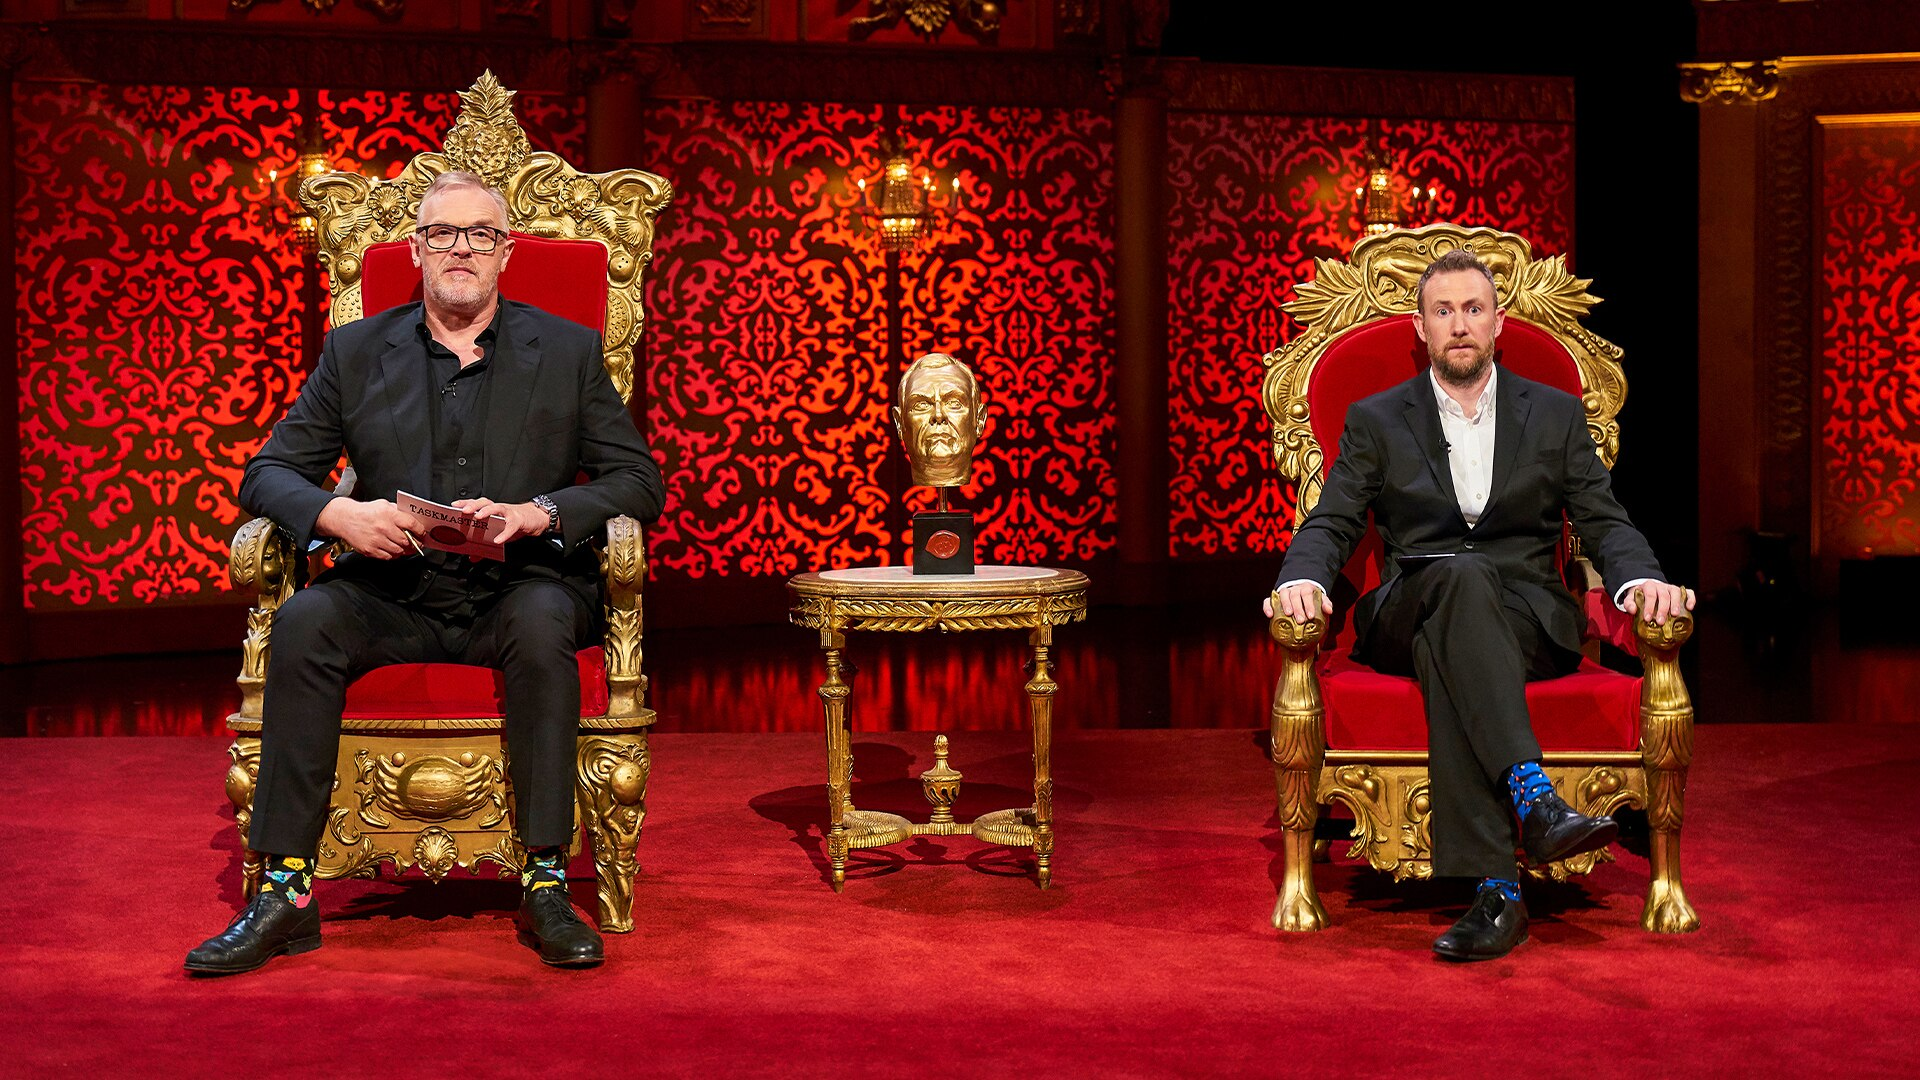
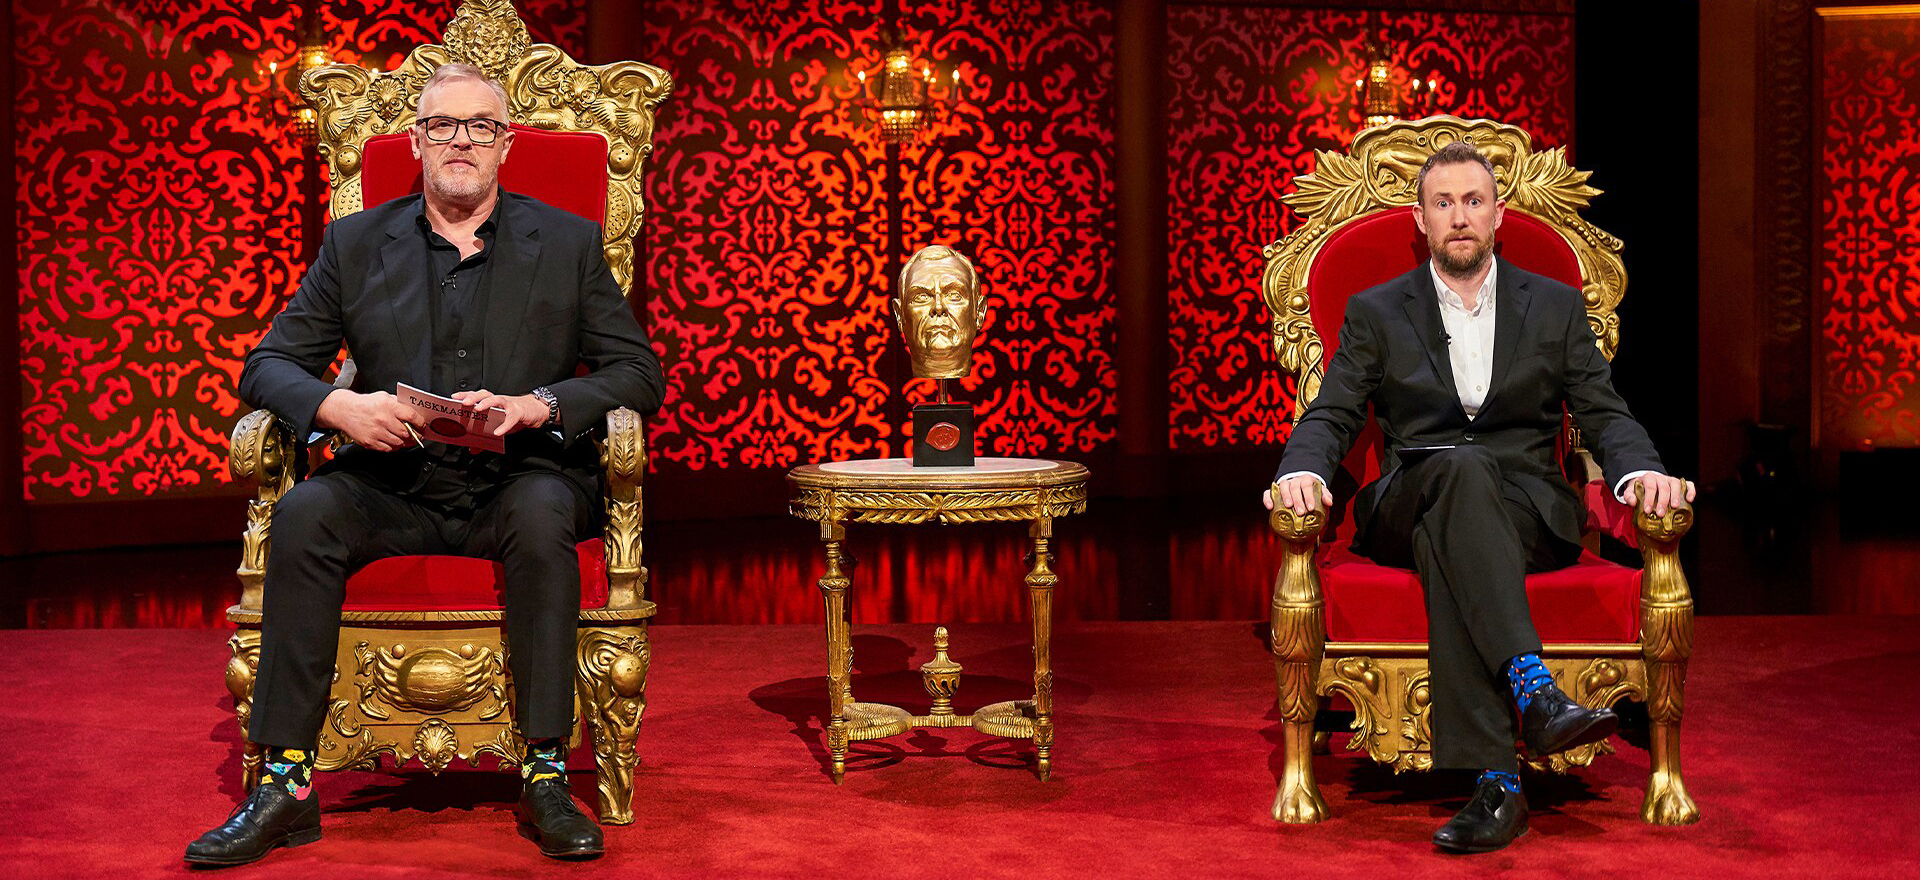
Add aspect ratio to imgs

diff --git a/css/style.css b/css/style.css
@@ -125,7 +125,8 @@ ul {
 }
 
 .content-img {
-  max-width: 100%;
+  aspect-ratio: 24 / 11;
+  width: 100%;
 }
 
 .content-title {
